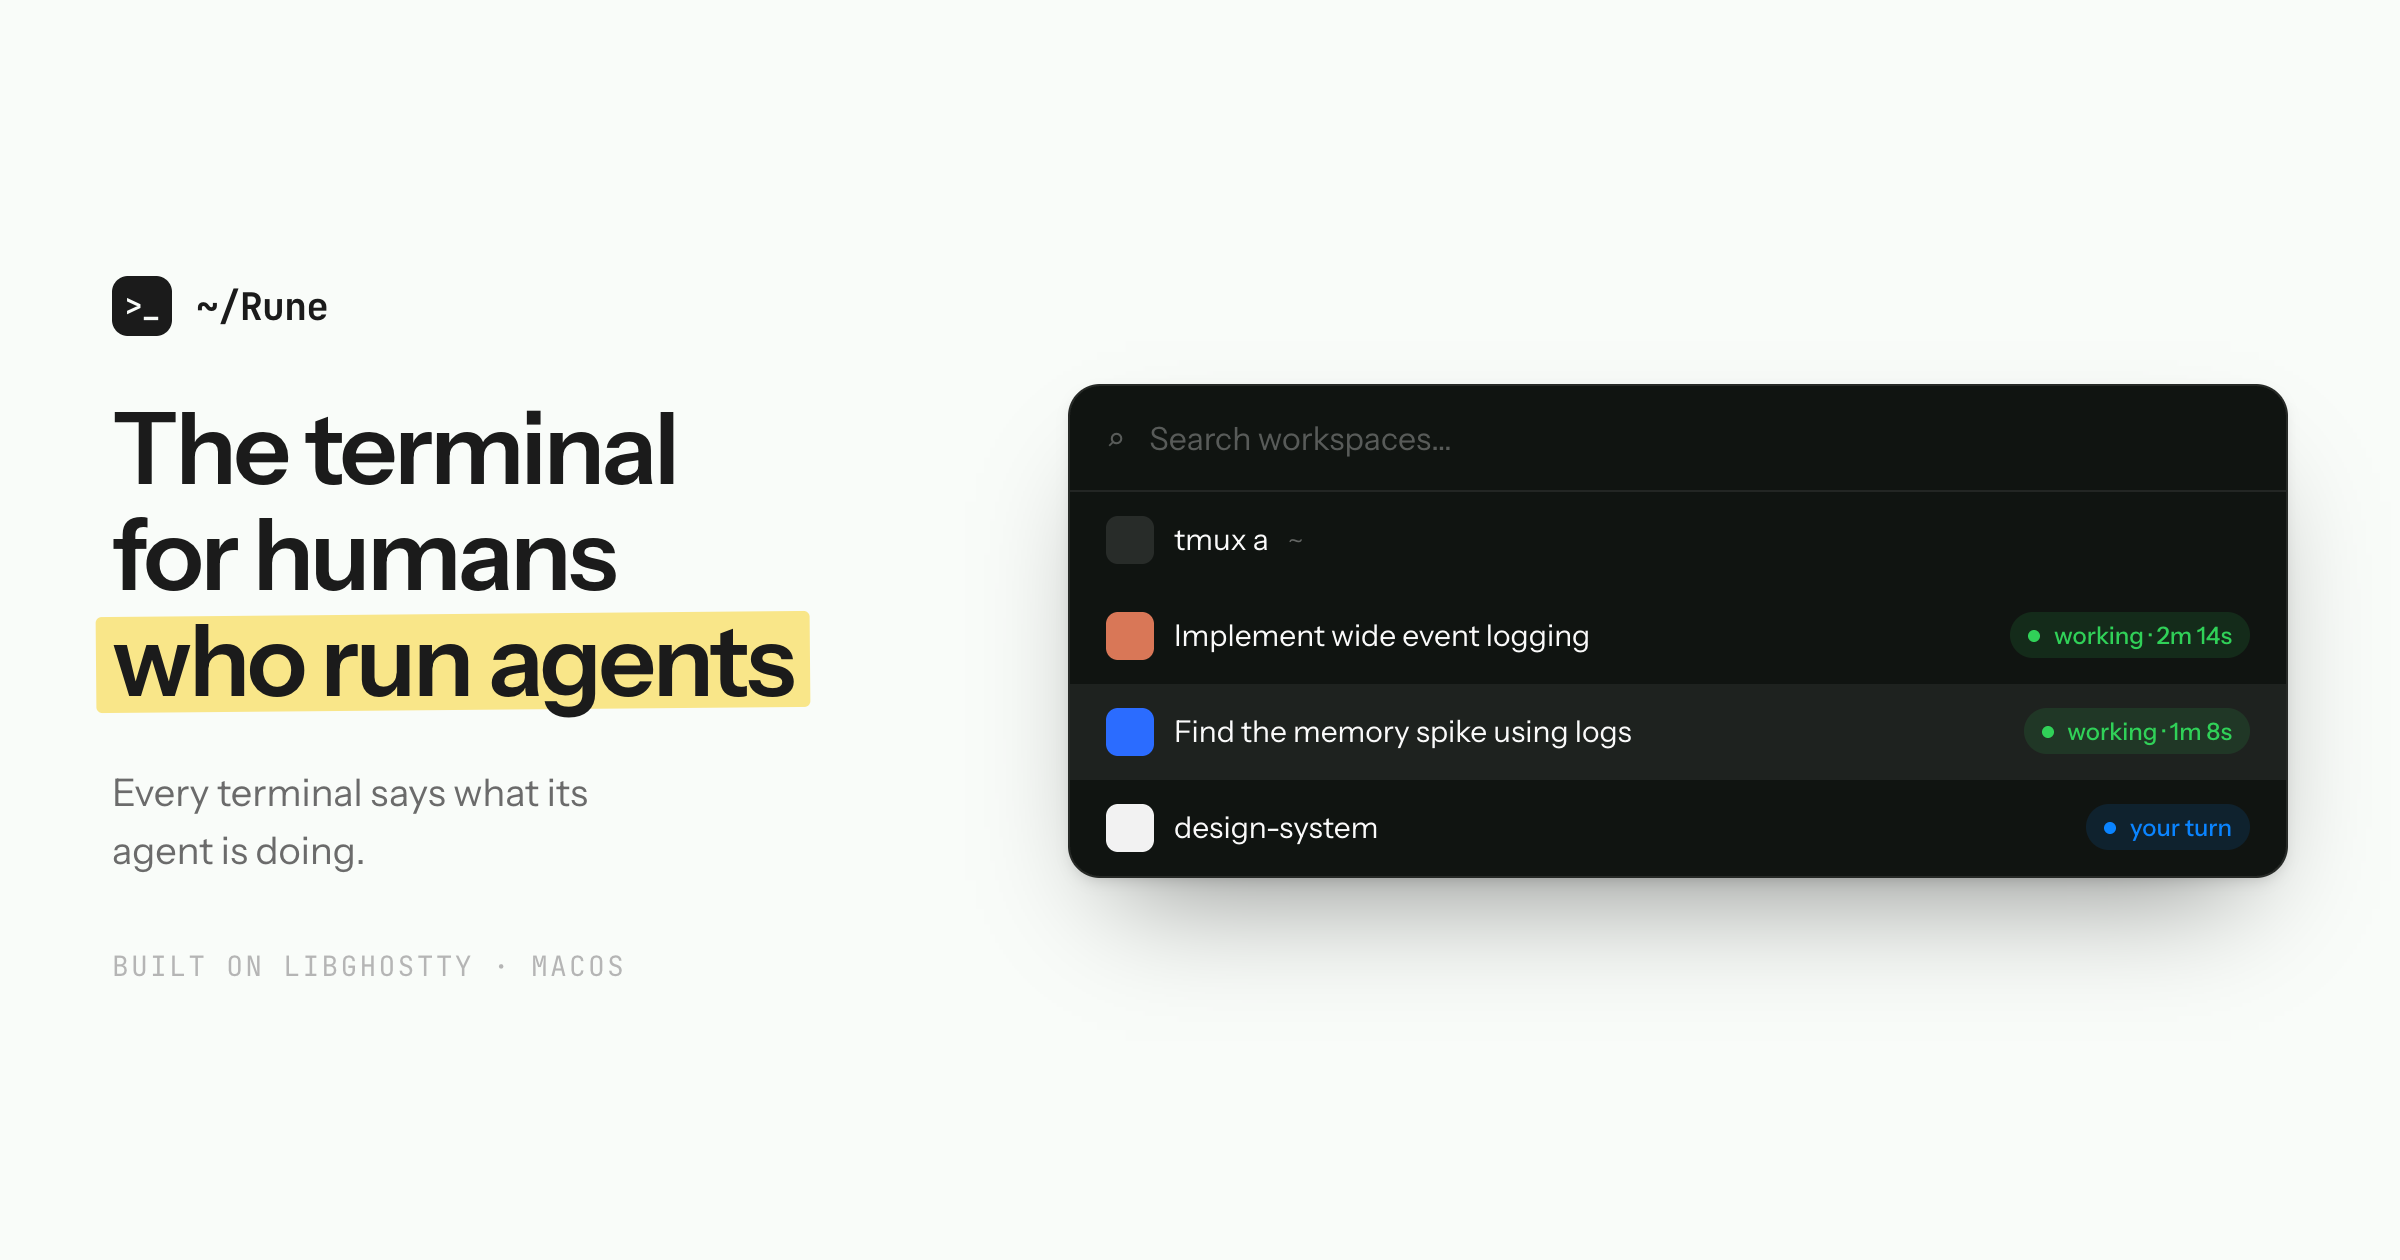
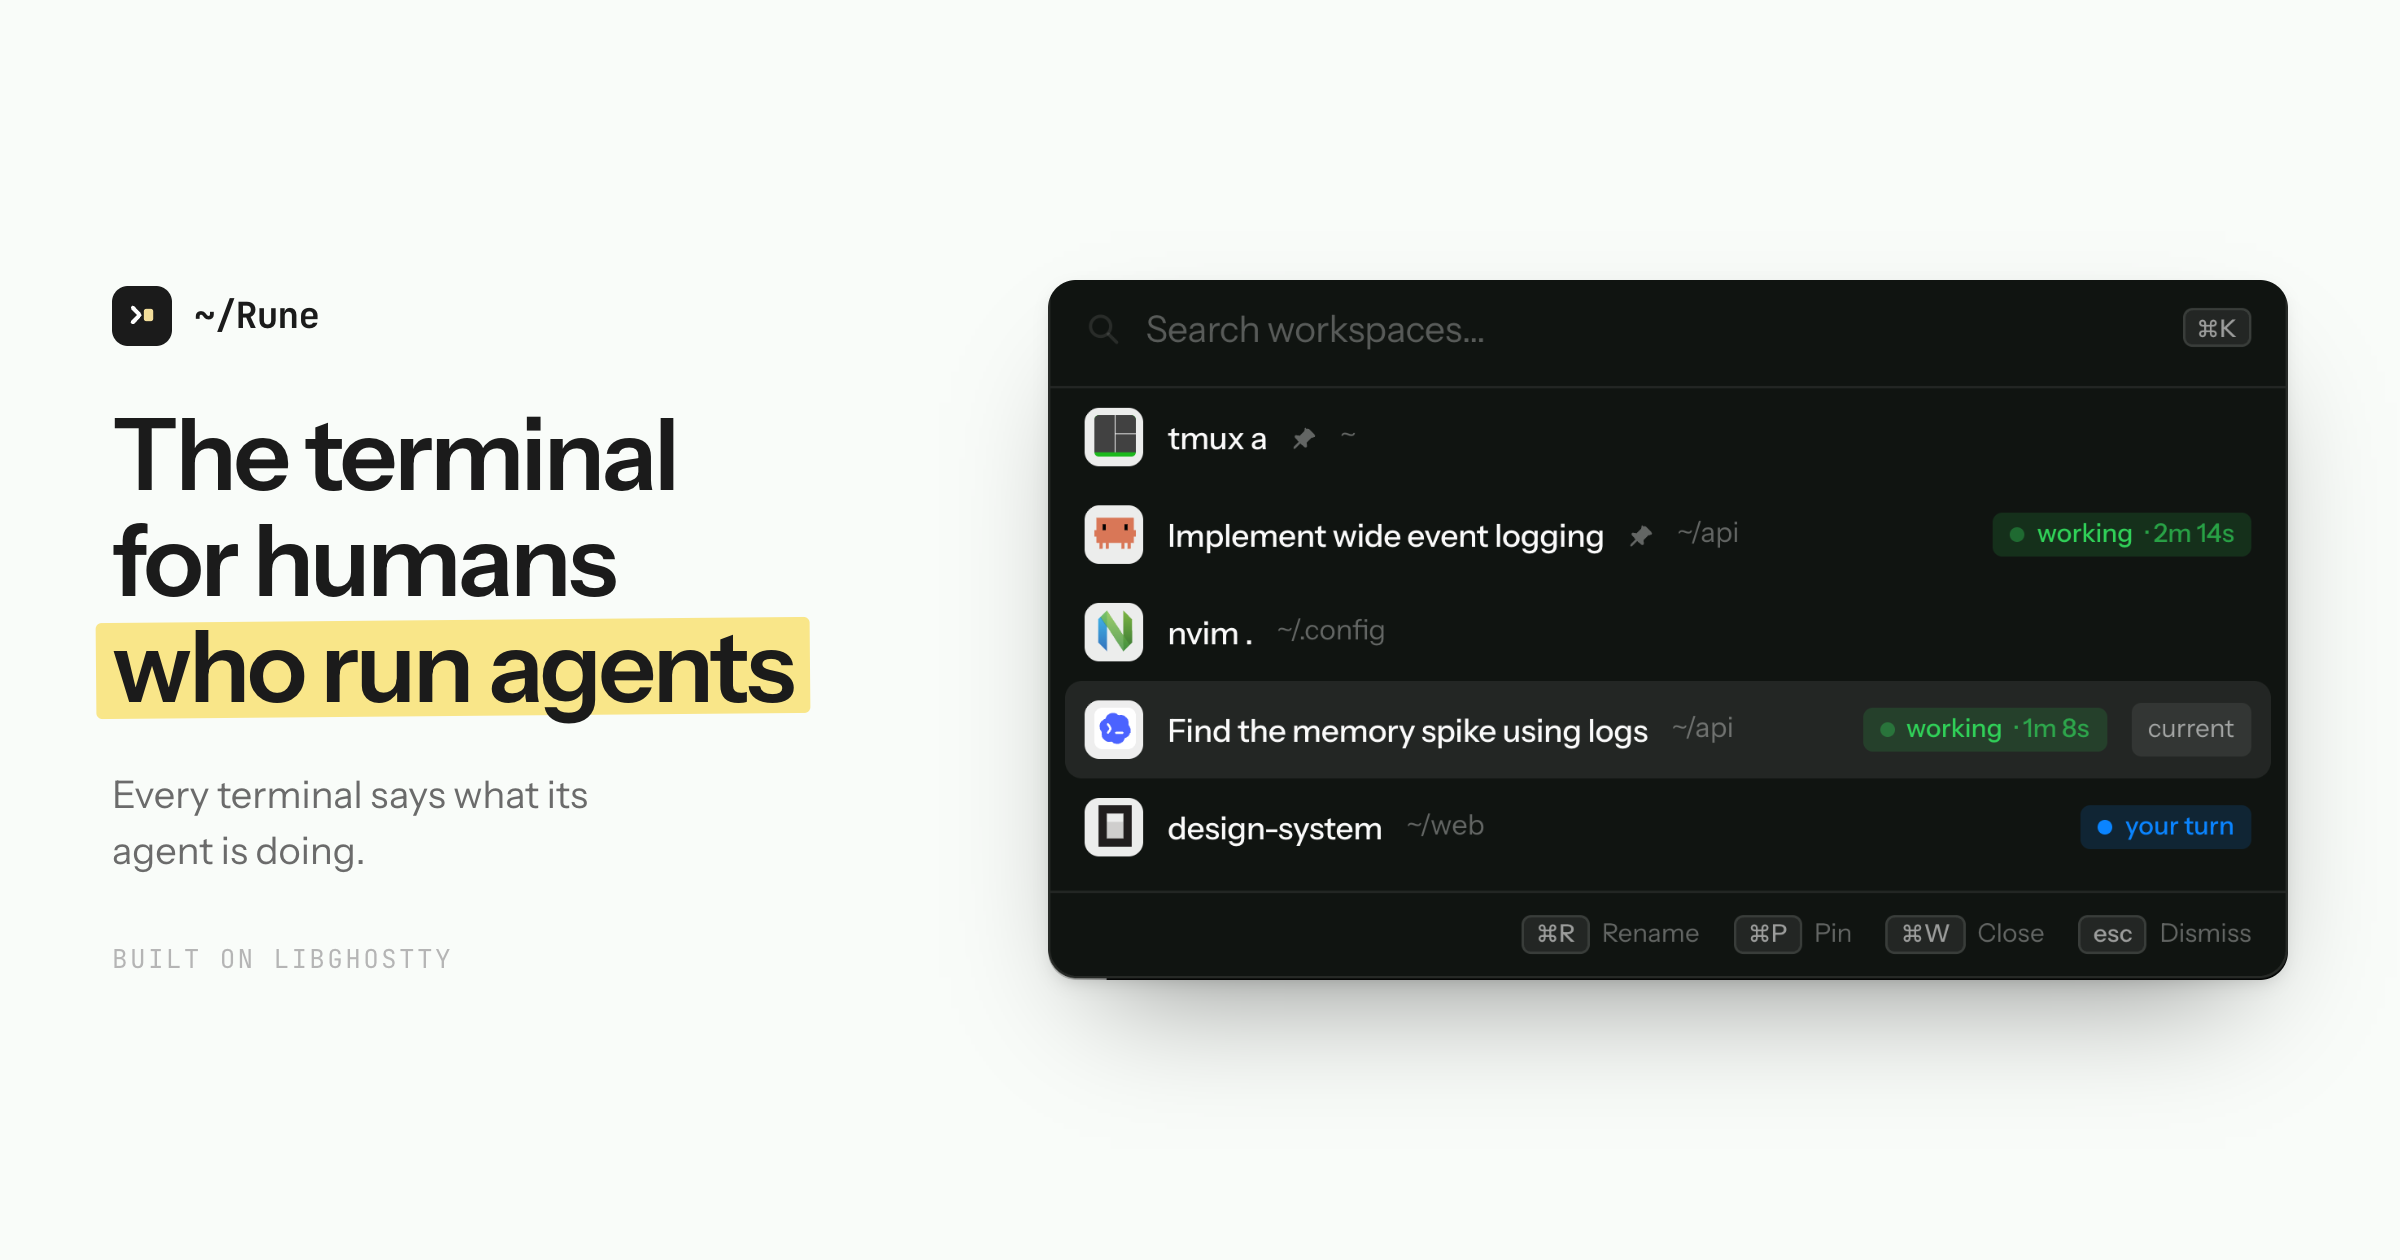
feat: the share card is the panel itself, and the title is just Rune
The card had a ⌘K panel drawn in its own markup, which was wrong the
moment the real one moved: coloured squares where the agents have marks,
no pins, no paths, no hint bar, and a footer still claiming macOS after
the page's label dropped it. It is now a 3x capture of `.term__palette`
off the running site, clipped and shadowed in the card rather than in
the screenshot — an element screenshot stops at the element's box, so
the panel's own shadow came away with it.

The title is `Rune`. It was the headline plus the tagline, which is what
og:title is for; the tab and the search result only need the name.

Note the tags still point at rune-website.vercel.app, which serves some
other deployment — <title>Rune</title>, description "Rune Website", no
commit in this repo has ever had either — and 404s /og.png. Until the
real hostname replaces the five absolute URLs at the top of index.html,
a shared link renders no card.

diff --git a/index.html b/index.html
@@ -4,7 +4,7 @@
     <meta charset="UTF-8" />
     <link rel="icon" type="image/svg+xml" href="/favicon.svg" />
     <meta name="viewport" content="width=device-width, initial-scale=1.0" />
-    <title>Rune — the terminal for humans who run agents</title>
+    <title>Rune</title>
     <meta
       name="description"
       content="A macOS terminal built on libghostty. Every terminal says what its agent is doing, and every one of them is a chord away."
